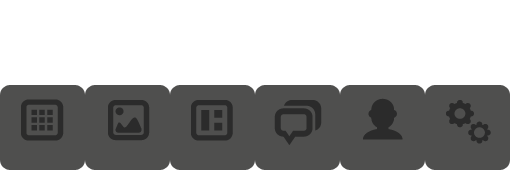
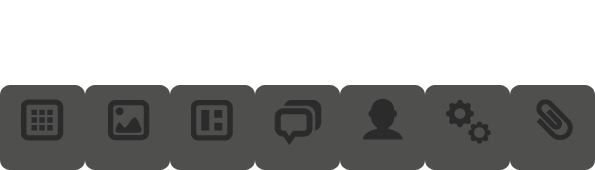
sistemata icona documenti admin

diff --git a/app/assets/stylesheets/admin_overrides.scss b/app/assets/stylesheets/admin_overrides.scss
@@ -422,6 +422,18 @@
       
     }
     
+    &.documents {
+      
+      background-position: -510px 0;
+      
+      &:hover, &.active {
+        
+        background-position: -510px -85px;
+        
+      }
+      
+    }
+    
     &.users {
       
       background-position: -340px 0;
